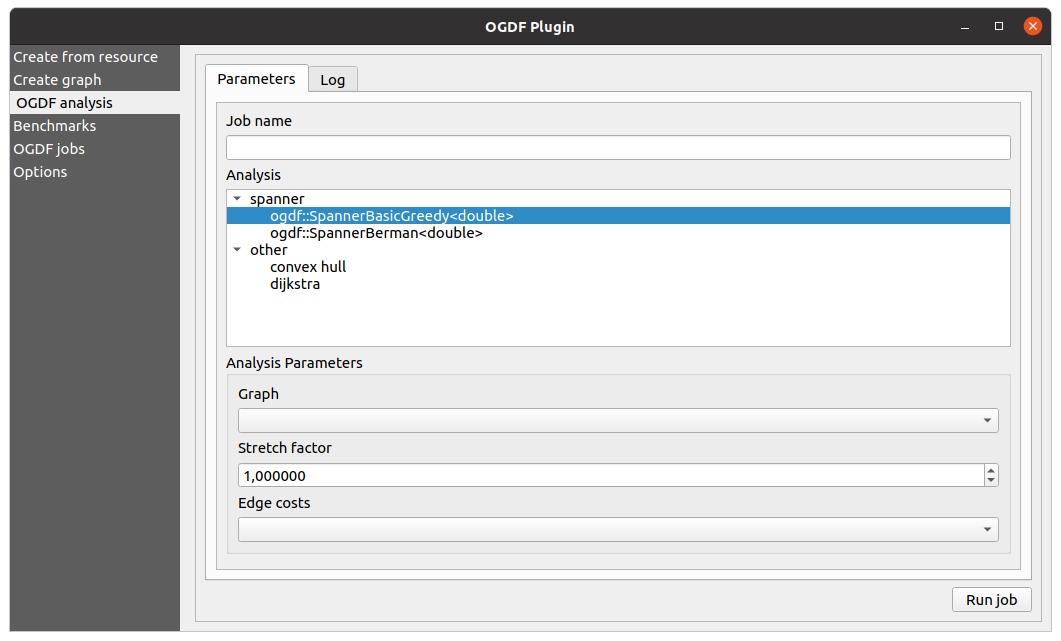
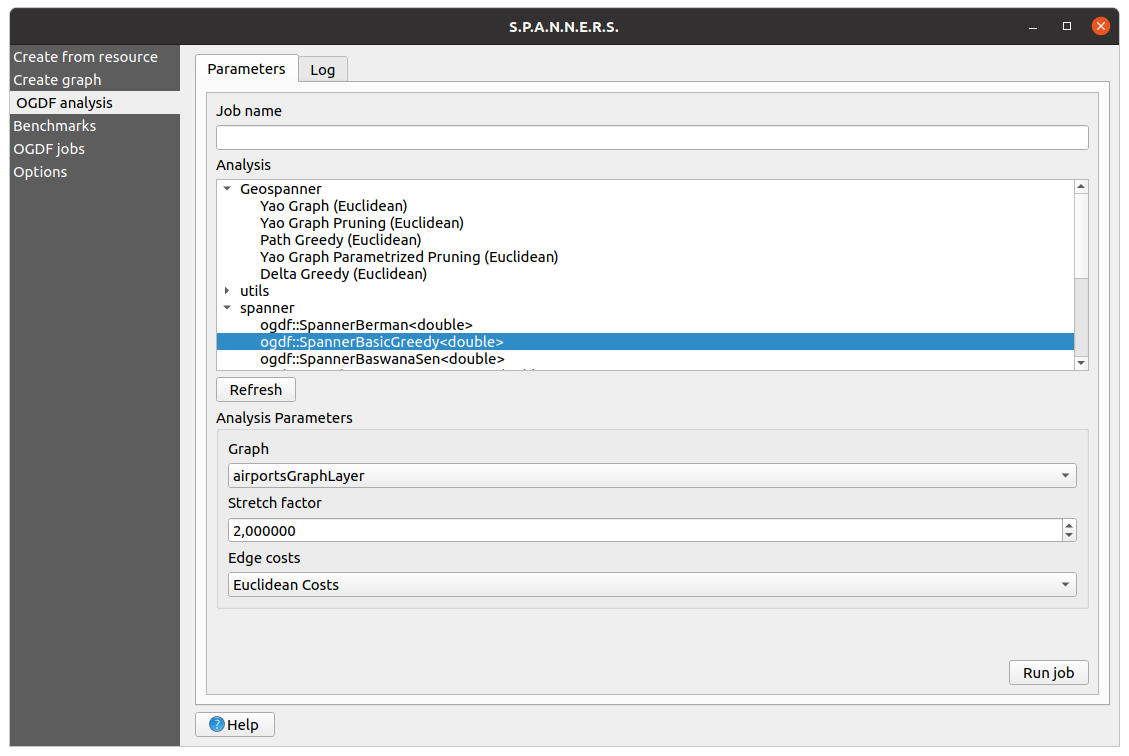
Update images, installation guide and ui section

Changed region(s): [[0.0, 0.0, 0.9953, 0.9984], [0.0, 0.9672, 0.0311, 0.9984]]

diff --git a/docs/git.md b/docs/git.md
@@ -4,7 +4,7 @@ Following this installation guide, you will use our git repository to install fr
 
 ## Install Frontend
 
-The frontend can be installed on Linux and Windows. The following sections list all necessary requirements and installation steps depending on the operating system.
+The frontend can be installed on Linux and Windows. The Linux commands assume that you have a Debian-based distribution. The following sections list all necessary requirements and installation steps depending on the operating system.
 
 ### Requirements
 
@@ -16,8 +16,10 @@ Following technologies are needed to install the frontend on your system:
 
 The installation steps below describe how to install these requirements on the respective system. There is also the possibility to install the frontend from a .zip file. This option simplifies the installation and does not require any installation tools.
 
+On Ubuntu, newer versions of Google's protobuf python modules could lead to QGIS crashes when importing these python modules. If this is the case, you should try to install an older version of the protobuf module that meets the minimum version. Unfortunately, Ubuntu 20.04 (Focal Fossa) is not supported for this reason. From Ubuntu 21 the import works and the plugin can be installed.
+
 ### Install from ZIP
-The frontend can be installed easily from a .zip file which can be downloaded from this link. Otherwise it is possible to create the zip file from the source code, but this requires the QT-develop tools and the requirements mentioned above. The .zip file can be created by the `make zip` command called from the root of the cloned plugin directory.
+The frontend can be installed easily from a .zip file which can be downloaded from [this link](data/spanners_plugin.zip). Otherwise it is possible to create the zip file from the source code, but this requires the QT-develop tools and the requirements mentioned above. The .zip file can be created by the `make zip` command called from the root of the cloned plugin directory.
 
 The .zip file can be installed in QGIS from the menu bar under  
 `Plugin -> Manage and Install Plugins... -> Install from ZIP`. This is what the window looks like:
@@ -37,7 +39,7 @@ Subsequently, you can [install the backend](./git.md#install-backend) or connect
 __Note:__ The .zip file does not provide binaries for the shortest path raster analysis. This would lead to a worse performance, because a pure Python implementation would be used instead. If you want to improve the performance of this analysis, you have to compile the C++ sources as described below in the respective installation instructions.
 
 ### Linux
-The installation of the plugin under Ubuntu 20.04 (Focal Fossa) does not work, as QGIS crashes when importing Google's protobuf python modules on this operation system. From Ubuntu 21 the import works and the plugin can be installed.
+If you want to install the frontend from source, follow the instructions below.
 First, if they are not already on your system, install these prerequisites for the following steps:
 
 - __`autoconf, automake, libtool, make, g++` and `unzip`:__ Install those by typing `sudo apt-get install autoconf automake libtool curl make g++ unzip` so you will be able to use protobuf.
@@ -49,18 +51,18 @@ Please follow the instrcutions below to install the frontend on Linux:
 - The __protobuf compiler__ is needed to compile the necessary protocol files. At first, you will need to download the `release .tar.gz` or the `.zip` package. To do so, download the file `protobuf-cpp-3.17.3.tar.gz` or `protobuf-cpp-3.17.3.zip`, respectively from ![here](https://github.com/protocolbuffers/protobuf/releases). Unpack it at a location of your choice. Open your terminal in the root of that folder and type `./configure`. After that, run this command: `make check`. Unfortunately, it is possible for the command to fail here and there, but that does not have to be relevant for this application. According to experience, a successful usage of the plugin is possible even when the first protobuf test should fail.
 Next, run `sudo make install`. To finish the protobuf's installation, run `sudo ldconfig`. At this point, you don't have to expect any output. 
 If you want, you can also see ![here](https://github.com/protocolbuffers/protobuf#protocol-compiler-installation) for the official installation instructions.
-- Clone the repository: `git clone --recursive <frontend-repository>`. Make sure to clone it recursively so that the submodules are loaded.
+- Clone the repository: `git clone --recursive https://github.com/S-P-A-N-N-E-R-S/Frontend`. Make sure to clone it recursively so that the submodules are loaded.
 - The required python packages can be installed with the `pip -r requirements.txt` command called from the root directory.
 - Deploy the plugin to QGIS by calling the `make deploy` command in the root directory. The plugin is now located on Linux at  
 `/home/<user>/.local/share/QGIS/QGIS3/profiles/default/python/plugins`  
-__Alternative:__ Copy or clone the repository directly into the folder located at `/home/<user>/.local/share/QGIS/QGIS3/profiles/default/python/plugins`. After copying, you need to navigate to the root of the frontend directory and execute the commands `make proto`, `make transcompile` and `make pybind\_build`. The `pybind\_build` is optional, but recommended as it speeds up the shortest path raster analysis using compiled C++ binaries. This command needs a C++ compiler on your system.
+__Alternative:__ Copy or clone the repository directly into the folder located at `/home/<user>/.local/share/QGIS/QGIS3/profiles/default/python/plugins`. After copying, you need to navigate to the root of the frontend directory and execute the commands `make proto`, `make transcompile` and `make pybind_build`. The `pybind_build` is optional, but recommended as it speeds up the shortest path raster analysis using compiled C++ binaries. This command needs a C++ compiler on your system.
 - Finally, the plugin needs to be enabled in QGIS: `Plugins -> Manage and Install Plugins...`
 
 Subsequently, you can [install the backend](#install-backend) or connect the frontend to an existing backend server.
 
 
 ### Windows
-The following instructions describe how to install the frontend on Windows:
+The following instructions describe how to install the frontend from source on Windows:
 
 - Install Git with [Git Bash](https://gitforwindows.org/). Alternative for Git Bash: [Cygwin](https://cygwin.com/)
 - Install QGIS via [OSGeo4W Network Installer](https://qgis.org/en/site/forusers/download.html#windows). In the installation wizard, choose `Advanced Install` and then select `qgis` and/or `qgis-ltr` in the desktop section and the `qt5-devel` package in the libs section. The "qt5-devel" package is needed to compile translation files. It is also possible to install this package separately via this installer if a QGIS installation already exists.
@@ -68,7 +70,7 @@ The following instructions describe how to install the frontend on Windows:
 __Note:__ The installation directory can differ on your system. If this is the case, please enter the right directories in the commands above.
 - [Install protobuf compiler](https://github.com/protocolbuffers/protobuf/blob/master/src/README.md#c-installation---windows) on your system. The simplest way is to [download the protoc binary](https://github.com/protocolbuffers/protobuf/releases/tag/v3.19.1) and either add the absolute path of `protoc-3.19.1-win64\bin` to the environment variable `PATH` or replace `protoc` in the Makefile by the absolute path of `protoc-3.19.1-win64\bin`.
 - [Install Visual Studio](https://visualstudio.microsoft.com/de/vs/features/cplusplus/) for the C++ compiler. This compiler is optional, but recommended if you want to enhance the speed of the shortest path raster analysis using compiled C++ binaries.
-- Clone the repository with `git clone --recursive <frontend-repository>` in the Windows shell or Git Bash. Make sure to clone it recursively so that the submodules will be loaded.
+- Clone the repository with `git clone --recursive https://github.com/S-P-A-N-N-E-R-S/Frontend` in the Windows shell or Git Bash. Make sure to clone it recursively so that the submodules will be loaded.
 - Open OSGeo4W Shell and navigate to the frontend directory with `cd <path_to_dir>`. Execute the following commands:
     - `python3 -m pip install -r requirements.txt` to install the required python packages.
     - `python3 scripts/setup.py build_ext --build-temp build_tmp/ --build-lib lib/`. This command builds the C++ binaries, is optional and can only be executed if a C++ compiler is installed. The created `build_tmp` can be removed afterwards, e.g. with `rmdir build_tmp`.
@@ -90,7 +92,7 @@ The backend contains a server and is needed to run algorithms on the graphs. It 
 The backend can be installed directly on a Linux system (see below) or the server can be [run in a Docker container](./docker.md), which automates and simplifies the complex installation of the system. The recommended way is to use Docker which __also supports Windows__.
 
 ### Linux
-The requirements and instructions below describe how to install the backend locally on a Linux system.
+The requirements and instructions below describe how to install the backend locally on a Linux system. The Linux commands assume that you have a Debian-based distribution.
 
 The system requires the following technologies:
 
@@ -106,17 +108,17 @@ The protobuf compiler used in the frontend installation can be used here as well
 
 - __PostgresSQL__ In most cases PostgresSQL is already installed on your system. If not, run this command: `sudo apt-get install postgresql`.
 - __boost__ The boost library can be installed with this command: `sudo apt-get install libboost-all-dev`
-- __cmake__ With high probability, cmake is already installed on your system. If not, use Ubuntu's software manager and install `CMake (Cross-platform buildsystem)`. To verify your installation, you can type `cmake -{}-version` in any terminal.
+- __cmake__ With high probability, cmake is already installed on your system. If not, execute `sudo apt install cmake` in a terminal. To verify your installation, you can type `cmake --version`.
 - __asio__ To install the asio C++ library, you can type this command: `sudo apt-get install -y libasio-dev`
 - __OpenSSL dev library__ The OpenSSL development library can be installed with `sudo apt-get install libssl-dev`.
 
 Please stick to the following instructions to manually install the backend server:
 
-- Clone the repository with submodules: `git clone --recurse-submodules <backend-repository>`
+- Clone the repository with submodules: `git clone --recurse-submodules https://github.com/S-P-A-N-N-E-R-S/Backend`
 - Install pqxx library manually: 
     - Clone from the [source from Github](https://github.com/jtv/libpqxx)
     - Run following commands in the root directory:
-        - `git checkout 7.5.2`  # or other version number
+        - `git checkout 7.5.2`  (or other version number)
         - `./configure --enable-shared`
         - `make`
         - `sudo make install`
@@ -127,7 +129,7 @@ Please stick to the following instructions to manually install the backend serve
         - Create a database: `CREATE DATABASE spanner_db;`
         - Close postgresql shell: `\q`  
         __Note:__ On Arch-systems (and possibly other systems) you might need to initialize postgres and start the postgresql service: `initdb -D /var/lib/postgres/data`
-    - To insert tables into the database, run `psql spanner\_db < database/spanners_tables.pgsql` in the root directory of the backend.  
+    - To insert tables into the database, run `psql spanner_db < database/spanners_tables.pgsql` in the root directory of the backend.  
     Alternatively, you can open the database in the postgres shell by typing `psql spanner_db`. Then you can copy and run the code from `database/spanners_tables.pgsql` in this shell. The created tables can be listed by the `\dt` command.
 - The server can be compiled and run either with or without TLS encryption:
     - Server with TLS encryption
@@ -135,14 +137,14 @@ Please stick to the following instructions to manually install the backend serve
             - `mkdir build`
             - `build`
             - `cmake ..`
-            - `make -j8`  # -j8 specifies your number of parallel cpu cores
+            - `make -j8` (`-j8` specifies the number of parallel cpu cores)
         - __Note:__ The application accepts two command line arguments:
 `./apps/server <certificate-path> <key-path>`
     - Server without TLS encryption
         - The server can be build without TLS encryption, e.g. for local use.  Compile the server without TLS by running these commands in the root directory:
             - `mkdir build`
             - `build`
-            - `cmake -DUNENCRYPTED\_CONNECTION=ON ..` # disable encryption
-            - `make -j8`  # -j8 specifies your number of parallel cpu cores
+            - `cmake -DUNENCRYPTED_CONNECTION=ON ..` (`DUNENCRYPTED_CONNECTION=ON` disables the encryption)
+            - `make -j8` (`-j8` specifies the number of parallel cpu cores)
         - __Note:__ Running the server application without TLS does not require any command line arguments.
 - Run the server in the built directory: `./apps/server`. The server is now reachable under `localhost:4711`.

diff --git a/docs/ui.md b/docs/ui.md
@@ -53,7 +53,7 @@ The _Create graph tab_ shown below allows to create graphs from one input layer 
     [![Cost Function Widget](img/Plugin_CreateGraph.png)](https://project2.informatik.uni-osnabrueck.de/spanners/img/Plugin_CreateGraph.png){:target="_blank"}
 </a>
 
-The contents of the tab are split into different tabs that provide various functions. The _Parameters tab_ contains all the input fields for creating a graph, which is created after clicking the `Create` button. The _Graph Tasks tab_ displays a table that lists information about all running and completed graph creation processes and allows to cancel a process. Also, it is possible to create at most three graphs simultaneously in the background by clicking the `create graph`<!--nachschauen--> button several times. The _Log tab_ outputs logging information in a text browser.
+The contents of the tab are split into different tabs that provide various functions. The _Parameters tab_ contains all the input fields for creating a graph, which is created after clicking the `Create` button. The _Graph Tasks tab_ displays a table that lists information about all running and completed graph creation processes and allows to cancel a process. Also, it is possible to create at most three graphs simultaneously in the background by clicking the `Create` button several times. The _Log tab_ outputs logging information in a text browser.
 
 ### OGDF Analysis Tab
 After you have created a graph, you can send it to the OGDF server for analysis in the _OGDF analysis tab_ and fetch the result of the analysis in the _OGDF jobs tab_. As you can see below, the view has two tabs.
@@ -62,27 +62,31 @@ After you have created a graph, you can send it to the OGDF server for analysis 
     [![Analysis Tab](img/main_window_analysis.png)](https://project2.informatik.uni-osnabrueck.de/spanners/img/main_window_analysis.png){:target="_blank"}
 </a>
 
-On the _Parameters tab_ you can specify the analysis and the corresponding analysis parameters. The _Log tab_ provides logging information. After clicking the `Run job` button, your data will be sent to the server, where the analysis will be performed. As explained in the chapter on [generating your own handlers](handlers.md), analyses can be added. The following analyses are provided by default:
+On the _Parameters tab_ you can specify the analysis and the corresponding analysis parameters. The _Log tab_ provides logging information. After clicking the `Run job` button, your data will be sent to the server, where the analysis will be performed. As explained in the chapter on [generating your own handlers](handlers.md), analyses can be added. This tab provides several analyses by default. The analysis categories and some important analyses are described below:
 
 <!--Zitation???-->
+- __Spanner:__ The spanner category includes spanner algorithms that preserve the distances of all nodes in the graph up to a certain additive or multiplicative factor. The factor is typically called stretch factor. The provided algorithms guarantee different spanner characteristic like fault-tolerance, minimum cost and roundtrip.
+- __Geospanner:__ The geospanner category comprises spanner algorithms that leverage the characteristics of the metric space to increase the calculation speed. Geospanner algorithms can be seen as a special case of spanner algorithms. These algorithms only use the nodes of the graph and imply a complete graph due to the metric space.
+- __Utils__: The utils category contains analyses for calculating specific graph characteristics, such as the fragility or the girth of a graph.
 - __Greedy Spanner:__ The greedy spanner analysis calculates a \((2k-1)\)-spanner of a given graph using the basic greedy \((2k-1)\)-spanner algorithm by Althöfer et al., 2007. The multiplicative spanner is constructed by greedily adding edges. The algorithm takes an undirected weighted graph, its edge costs and a stretch factor \(\geq 1\) for the multiplicative distortion function as input.
 - __Berman Spanner:__ The Berman spanner analysis calculates a \(k\)-spanner with an approximation ratio of \(\mathcal{O}(n^{1/2}\log n)\) based on Berman et. al., 2013. The analysis takes a simple connected graph, the edge costs of the graph and a stretch factor \(\geq 1\) for the multiplicative distortion function as input.
-- __Convex Hull:__ This analysis determines the convex hull of the selected graph and delivers the convex hull as a graph.
 - __Dijkstra:__ The Dijkstra analysis performs Dijkstra's single source shortest path algorithm on the given graph. The analysis takes a graph with positive edge weights, the graph's edge costs and a start node as input. The resulting graph contains all shortest paths starting from the start node.
+- __Kruskal's Algorithm:__ This analysis uses Kruskal's algorithm to find the minimum spanning tree of a given graph.
+- __Simplification:__ The simplification analysis simplifies a given graph by removing degree two nodes and adding an edge between their two adjacent nodes.
 
 
 ### Benchmarks Tab
 The Benchmark System gives you the possibility to execute experiments using the graphs you created. For more details, see the [Testing Your Results chapter](testing.md).
 
 ### OGDF Jobs Tab
-As mentioned above, in the _OGDF jobs tab_ you can view the status of your running jobs and fetch the results of your successfully completed jobs from the server. In addition, you can cancel jobs, restart them and fetch the original graph of the analysis from the server. The tab is displayed below:
+As mentioned above, in the _OGDF jobs tab_ you can view the status of your running jobs and fetch the results of your successfully completed jobs from the server. In addition, you can abort jobs, delete them and fetch the original graph of the analysis from the server. The tab is displayed below:
 
 <center>
     [![Main Window Jobs](img/main_window_jobs.png)](https://project2.informatik.uni-osnabrueck.de/spanners/img/main_window_jobs.png){:target="_blank"}
 </center>
 
 ### Options tab
-The _Options tab_ is shown below and allows to specify general settings for the plugin. You can specify server settings, like host or port and authentication settings, like username or password. After confirming the `Save` button, the settings will be persistently saved in QGIS. The following server settings can be set:
+The _Options tab_ is shown below and allows you to specify general settings for the plugin. You can specify server settings, like host or port and authentication settings. In the authentication settings, you can create a new user on the server or log in to the server by specifying a username and a password. After confirming the `Save` button, the settings will be persistently saved in QGIS. The following server settings can be set:
 
 <center>
     [![Main Window Jobs](img/main_window_options.png)](https://project2.informatik.uni-osnabrueck.de/spanners/img/main_window_options.png){:target="blank"}

diff --git a/docs/docker.md b/docs/docker.md
@@ -9,11 +9,12 @@ The following steps show how to install and run the backend Docker:
 - [Install Docker](https://docs.docker.com/get-docker/) on your system
 - __Optional:__ You can [run Docker as non root user on Linux](https://docs.docker.com/engine/install/linux-postinstall/#manage-docker-as-a-non-root-user)
 - [Install Docker Compose](https://docs.docker.com/compose/install/) (already included in Docker Desktop)
-- Clone the backend Docker repository recursively:  
-`git clone --recursive <backend-docker-repository>`
+- Clone the backend repository recursively:  
+`git clone --recursive https://github.com/S-P-A-N-N-E-R-S/Backend`
+- Navigate to the root directory of the cloned repository
 - Run the postgres container: `sudo docker-compose up postgres`
 - Execute the database commands defined in the backend database file in a separate terminal to create all the tables needed:  
-`sudo docker-compose exec postgres psql spanner\_db spanner\_user -f /opt/backend/database/spanners\_tables.pgsql`
+`sudo docker-compose exec postgres psql spanner_db spanner_user -f /opt/backend/database/spanners_tables.pgsql`
 - Stop the postgres container by typing `Ctrl+C`.
 - Start the Docker containers: `sudo docker-compose up`
 
@@ -25,6 +26,6 @@ Notes:
 - Changes will be compiled when `sudo docker-compose up` is called.
 - Run commands in the backend by `sudo docker-compose exec backend <command>`. Replace `backend` with `postgres` to run commands on the postgres database Docker container.
 - While `sudo docker-compose up` is running, the shell can be accessed in another terminal by `sudo docker-compose exec backend bash`.
-- The backend code is located at `/opt/backend`.
+- The backend code is located at `/opt/backend` in the Docker container.
 - Rebuild Docker images (helpful if changes have been made in the Dockerfile): `sudo docker-compose up --build`
--  As TSL requires a signed certificate and a key file, the TSL encryption is disabled in `docker-compose.yml`. This allows a quick and easy installation of the server. The encryption is highly recommended if you use compose in production.
+-  As TLS requires a signed certificate and a key file, the TSL encryption is disabled in `docker-compose.yml`. This allows a quick and easy installation of the server. The encryption is highly recommended if you use compose in production.
